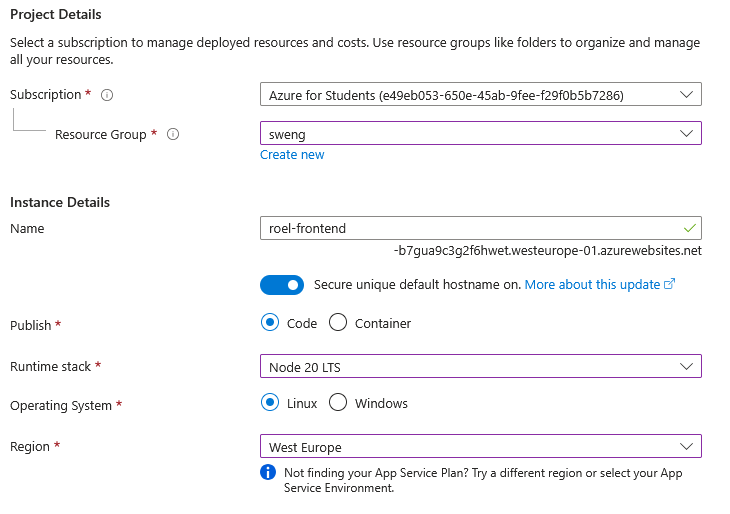
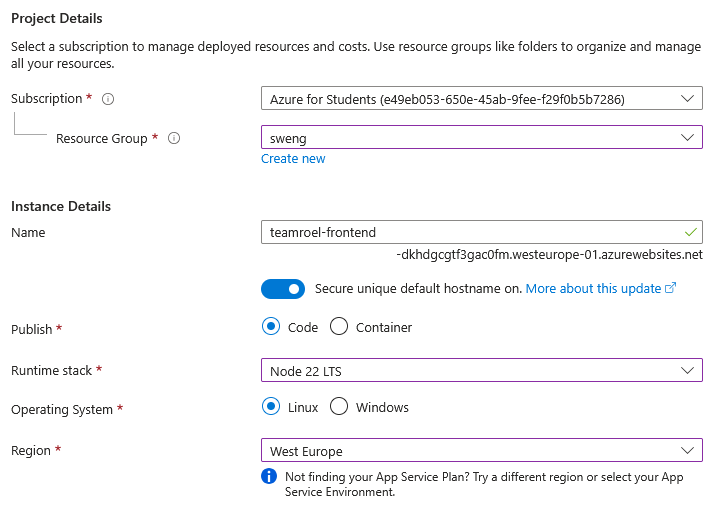
Update instructions to Node 22

diff --git a/sprint-1/project/cicd/3-front-end/2-starting-a-cicd-pipeline/2-setup-azure-resource.md b/sprint-1/project/cicd/3-front-end/2-starting-a-cicd-pipeline/2-setup-azure-resource.md
@@ -16,7 +16,7 @@ Your GitHub repository should contain the building blocks to start building your
     * Resource Group -> The group you created in [1-set-up-azure-for-students](../../1-azure/1-set-up-azure-for-students.md)
     * Name -> `<team-name>-frontend`
     * Publish -> Code
-    * Runtime stack -> Node 20 LTS
+    * Runtime stack -> Node 22 LTS
     * Operating System -> Linux
     * Region -> West Europe
 
